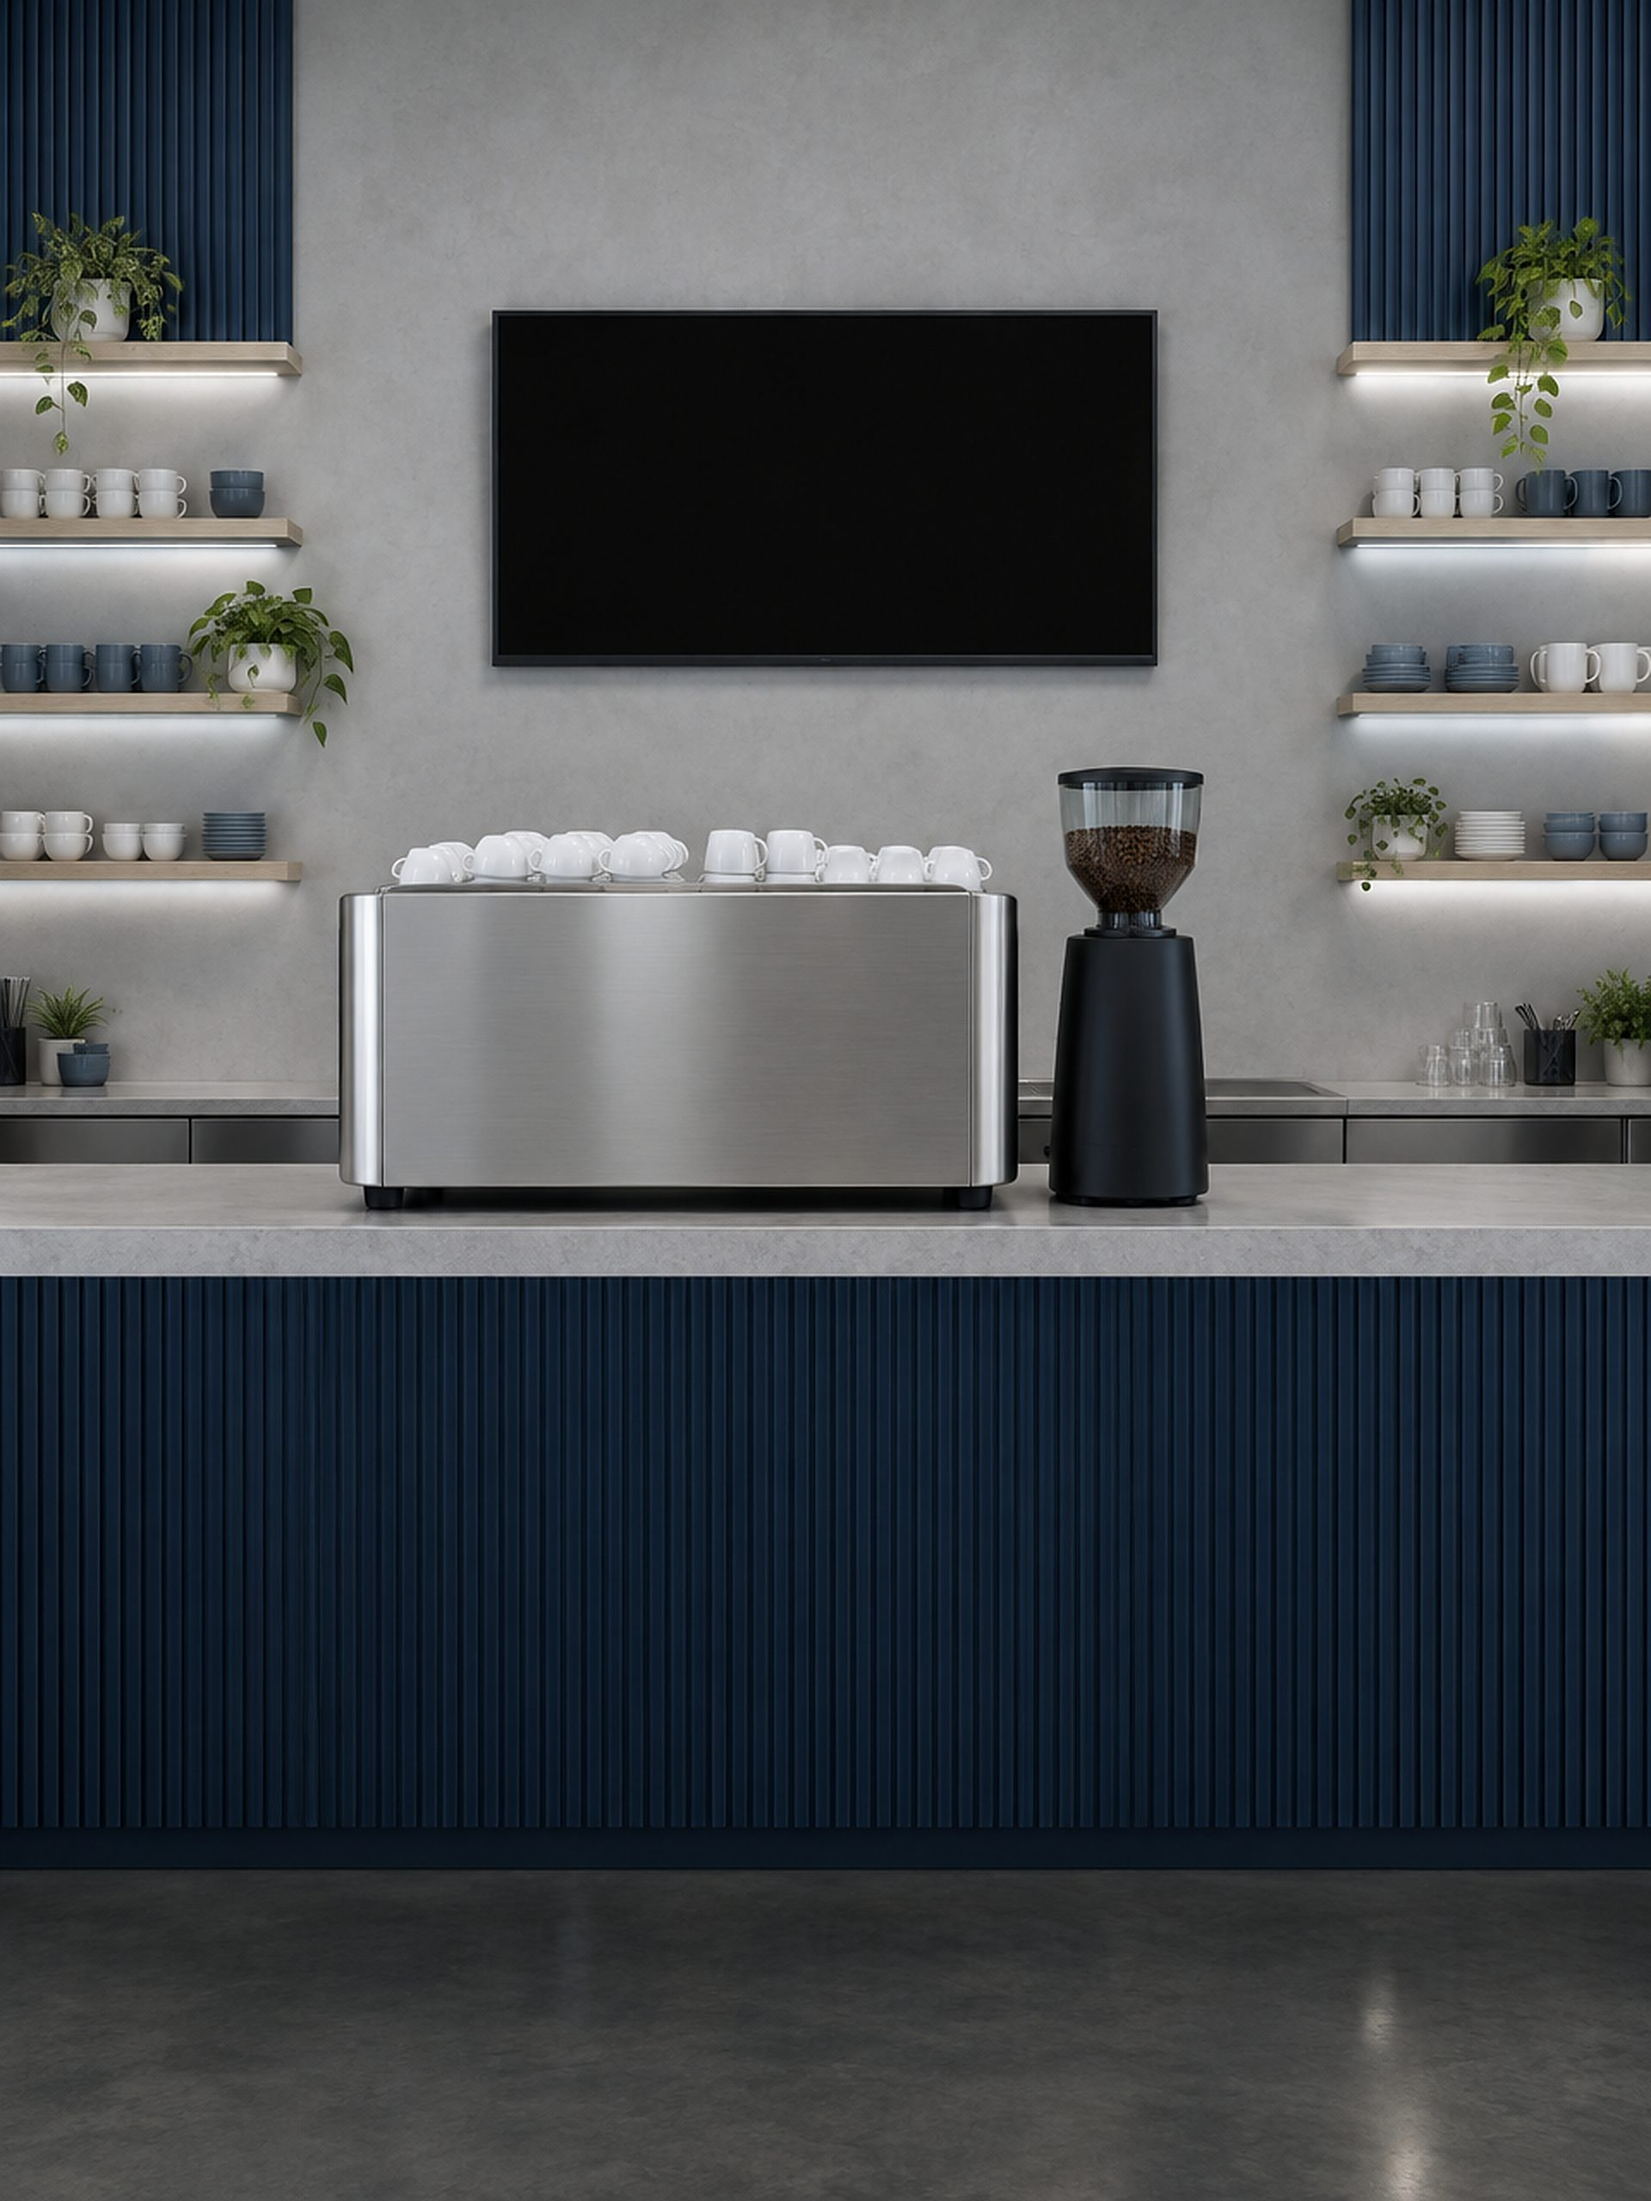
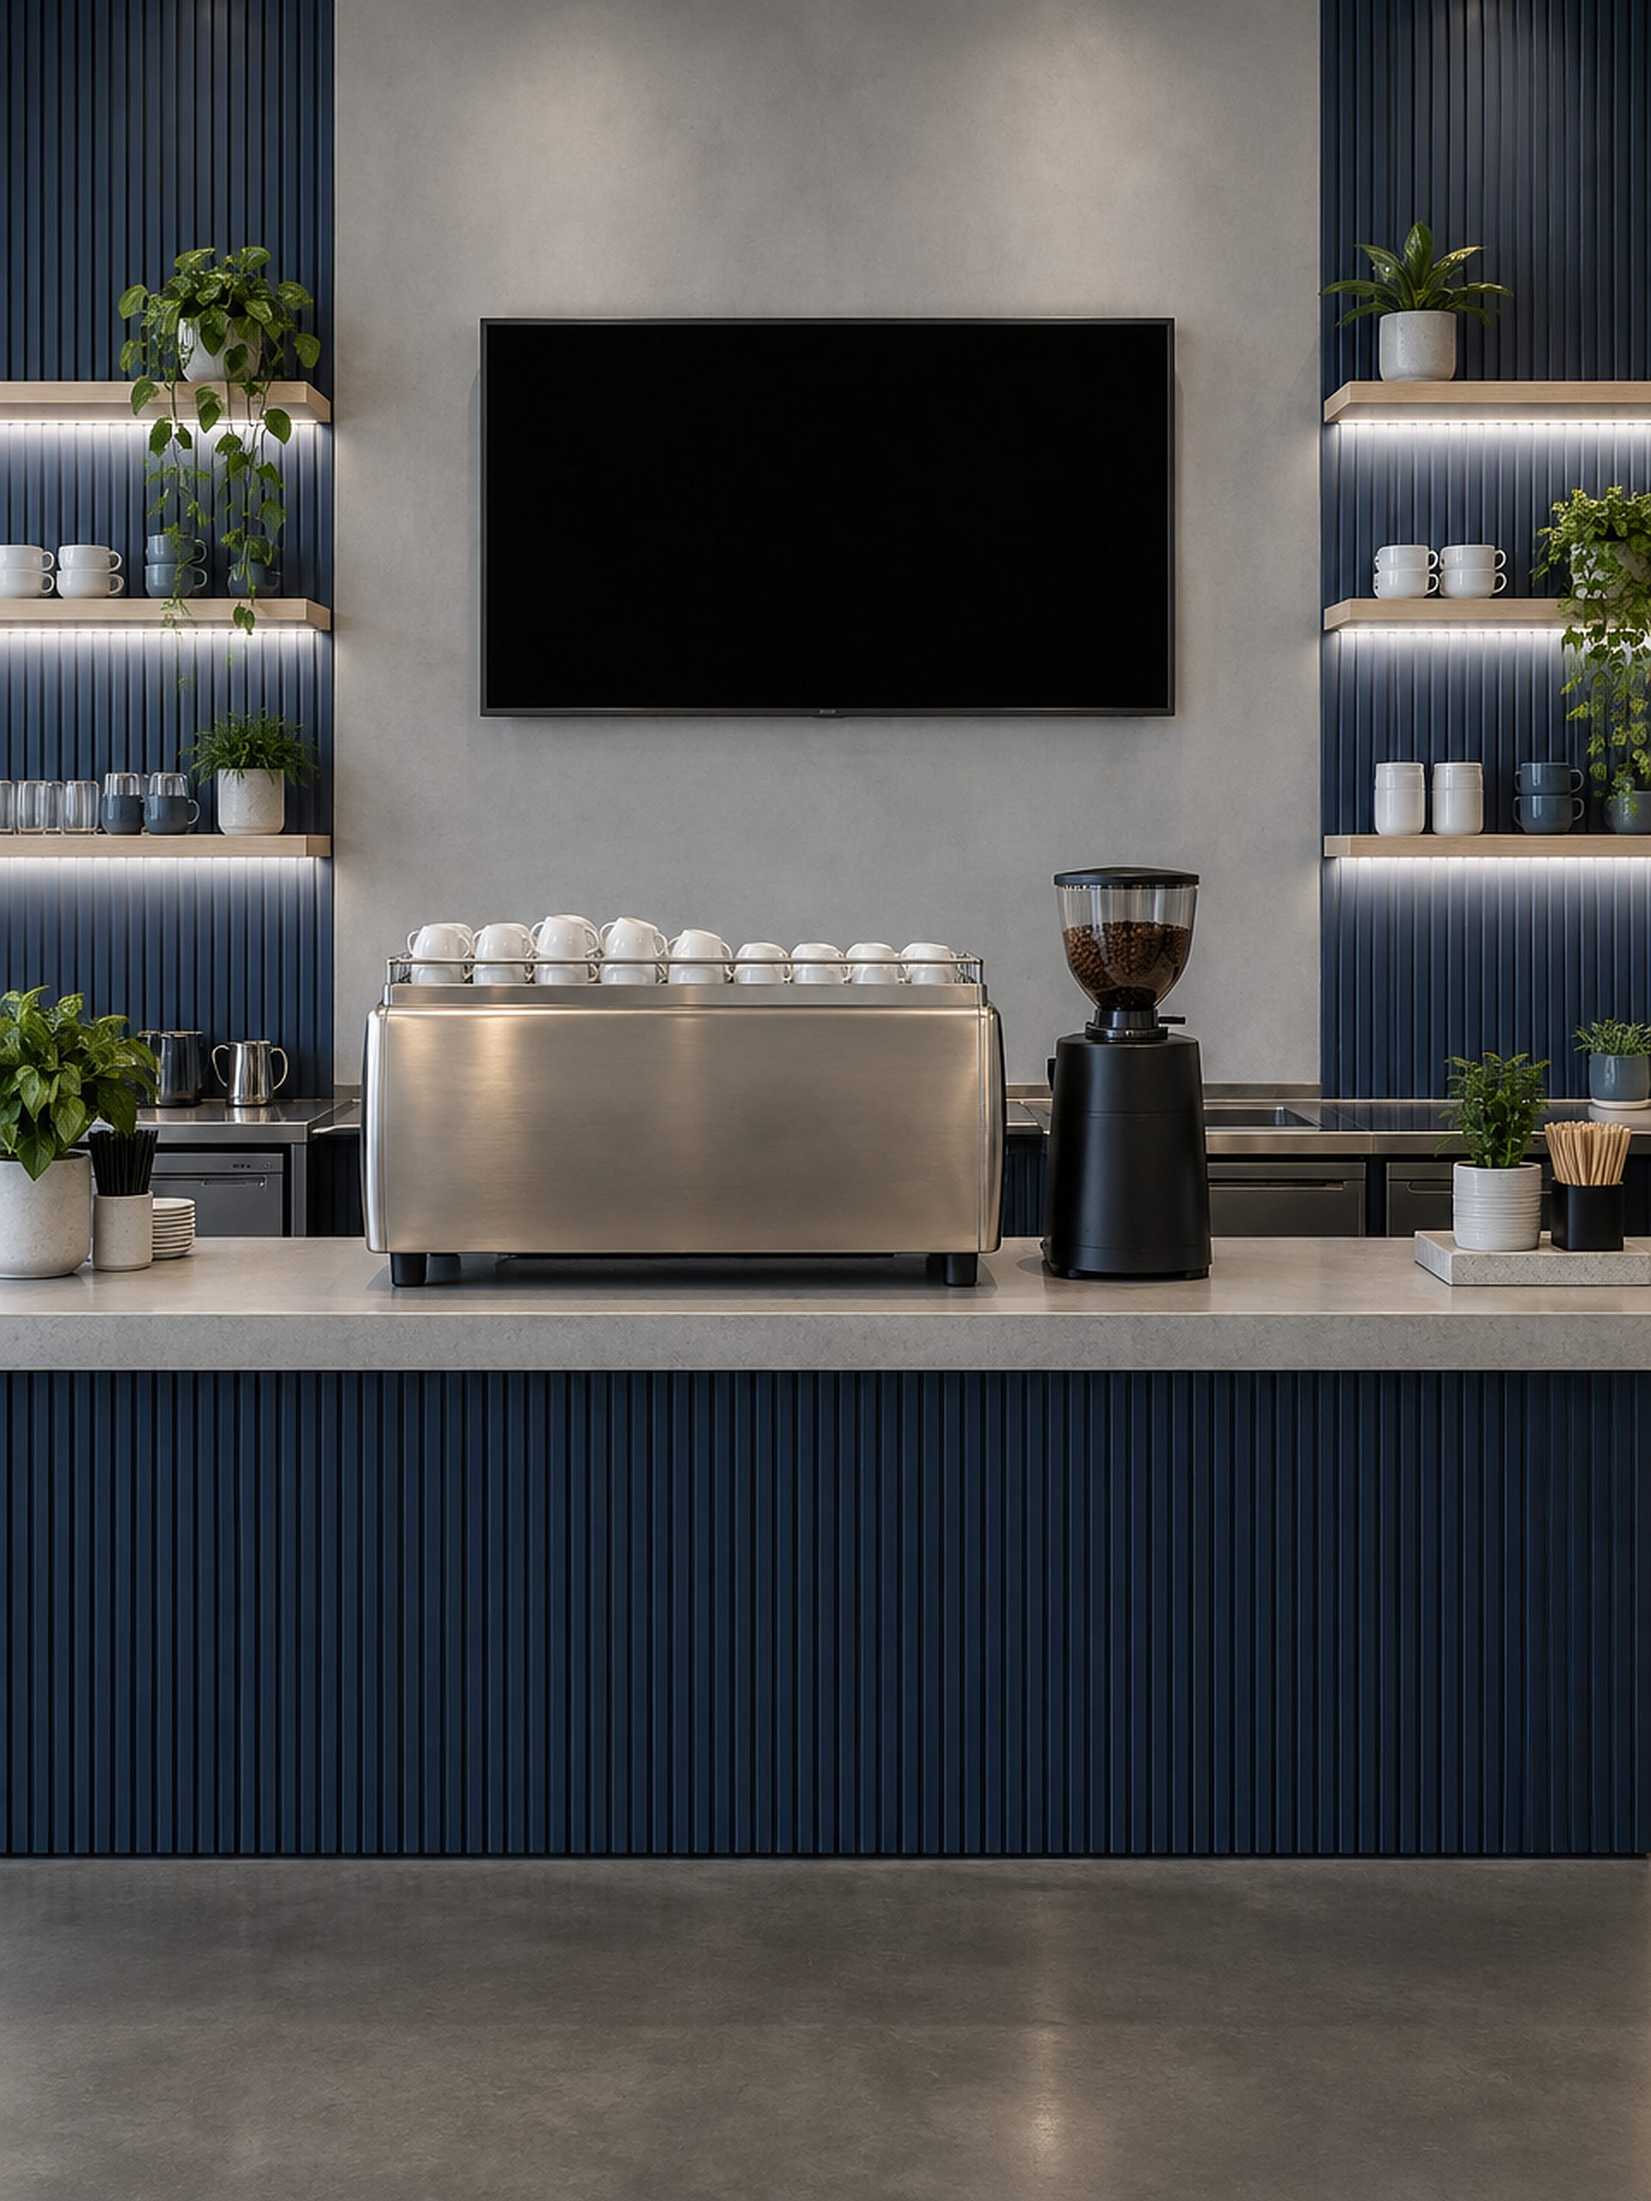
로그인 매장 비주얼: 매장 장면 이미지를 자연스러운 생성본(Figma 5:2)으로 교체
- store-scene.jpg(1x) · store-scene@2x.jpg(2x) 모두 새 이미지로 재생성
- 디스플레이 화면 좌표 재측정(x283·y189·396×223 / 960×1280) → .auth-screen 갱신

diff --git a/app/styles.css b/app/styles.css
@@ -190,8 +190,8 @@ textarea.input{height:auto;padding:10px 12px;resize:vertical}
 .auth-scene-in{position:absolute;left:50%;top:30%;width:max(100cqw,75cqh);aspect-ratio:3/4;transform:translate(-50%,-30%)}
 .auth-scene-img{position:absolute;inset:0;width:100%;height:100%;object-fit:cover;display:block}
 .auth-brand::after{content:"";position:absolute;left:0;right:0;bottom:0;height:36.7%;z-index:1;pointer-events:none;background:linear-gradient(0deg,#000 0%,rgba(0,0,0,.9) 8.5%,rgba(0,0,0,.71) 25.5%,rgba(0,0,0,.52) 42.5%,rgba(0,0,0,.33) 59.6%,rgba(0,0,0,.12) 80.9%,rgba(0,0,0,0) 100%)} /* 하단 블랙 그라데이션 — 패널 하단 36.7%, 시안(2026-11-12) 실측값 */
-/* 디스플레이 화면(이미지 960×1280 기준 x290·y184·380×197) */
-.auth-screen{position:absolute;left:30.21%;top:14.38%;width:39.58%;height:15.39%;overflow:hidden;background:#0B1220;container-type:size;box-shadow:0 0 6cqw rgba(160,190,255,.16)}
+/* 디스플레이 화면(이미지 960×1280 기준 x283·y189·396×223) */
+.auth-screen{position:absolute;left:29.48%;top:14.77%;width:41.25%;height:17.42%;overflow:hidden;background:#0B1220;container-type:size;box-shadow:0 0 6cqw rgba(160,190,255,.16)}
 .auth-screen::after{content:"";position:absolute;inset:0;background:linear-gradient(115deg,rgba(255,255,255,.07) 0%,rgba(255,255,255,0) 40%)}
 .auth-screen .slide{position:absolute;inset:0;display:flex;flex-direction:column;justify-content:center;padding:0 5cqw;background-size:cover;background-position:right center;animation:auth-slide 12s infinite;opacity:0}
 .auth-screen .s-menu{background-image:url(../uploads/login/board-drinks.jpg);color:#EAF0FF}

diff --git a/HANDOFF.md b/HANDOFF.md
@@ -329,6 +329,6 @@ Program 편성표     { id, name, broadcast:boolean, scopes:Scope[], blocks:Bloc
     ⚠ 2x 파일은 생성 원본(960×1280)을 Lanczos 2배 + 언샤프 마스크로 만든 것 — 진짜 고해상 디테일은 아님. 생성 도구(Figma AI) 출력 상한이 960×1280.
   - `board-drinks.jpg` · `board-promo.jpg` 1536×864 — 디스플레이에 얹는 메뉴/프로모션 슬라이드 배경
 - 디스플레이 콘텐츠는 HTML(`.auth-screen .slide`) — 메뉴·가격 텍스트가 선명하고 문구 교체가 쉬움. 2장 6초 간격 교차 전환(CSS 애니메이션). `prefers-reduced-motion`이면 첫 장 고정.
-- 크롭: `.auth-scene`을 이미지 비율(3:4)로 두고 `width:max(100cqw,75cqh)`로 패널을 덮음(= object-fit:cover). 가로 중앙·세로 30% 기준이라 디스플레이가 잘리지 않음. 디스플레이 좌표는 이미지 기준 %(x290·y184·380×197 / 960×1280) — **이미지를 교체하면 좌표도 다시 측정**.
+- 크롭: `.auth-scene`을 이미지 비율(3:4)로 두고 `width:max(100cqw,75cqh)`로 패널을 덮음(= object-fit:cover). 가로 중앙·세로 30% 기준이라 디스플레이가 잘리지 않음. 디스플레이 좌표는 이미지 기준 %(x283·y189·396×223 / 960×1280) — **이미지를 교체하면 좌표도 다시 측정**.
 - 실패 처리: 장면 이미지 `onerror` → 장면 전체 숨김(네이비 배경 + 텍스트만). 모바일(≤1100px)은 패널이 숨겨지고 이미지는 `loading="lazy"`라 받지 않음.
 - TODO(디자인): 장면 이미지 실제 해상도 960×1280 — 확정 시 AI 업스케일(Topaz/Real-ESRGAN 등) 또는 고해상 원본으로 `store-scene@2x.jpg`(1920×2560 이상)만 교체하면 됨(좌표·코드 변경 없음).
